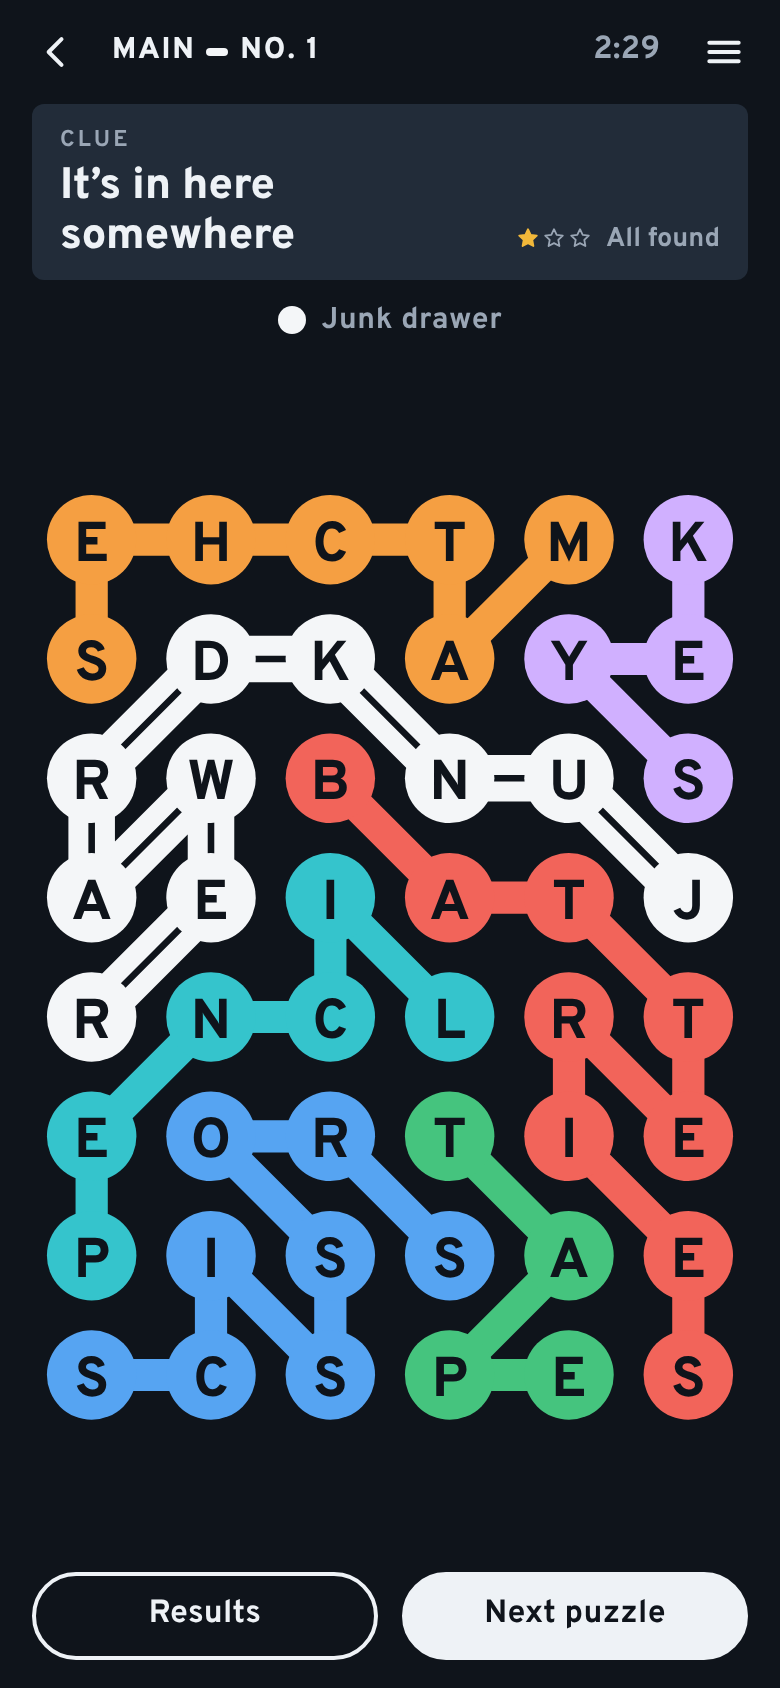
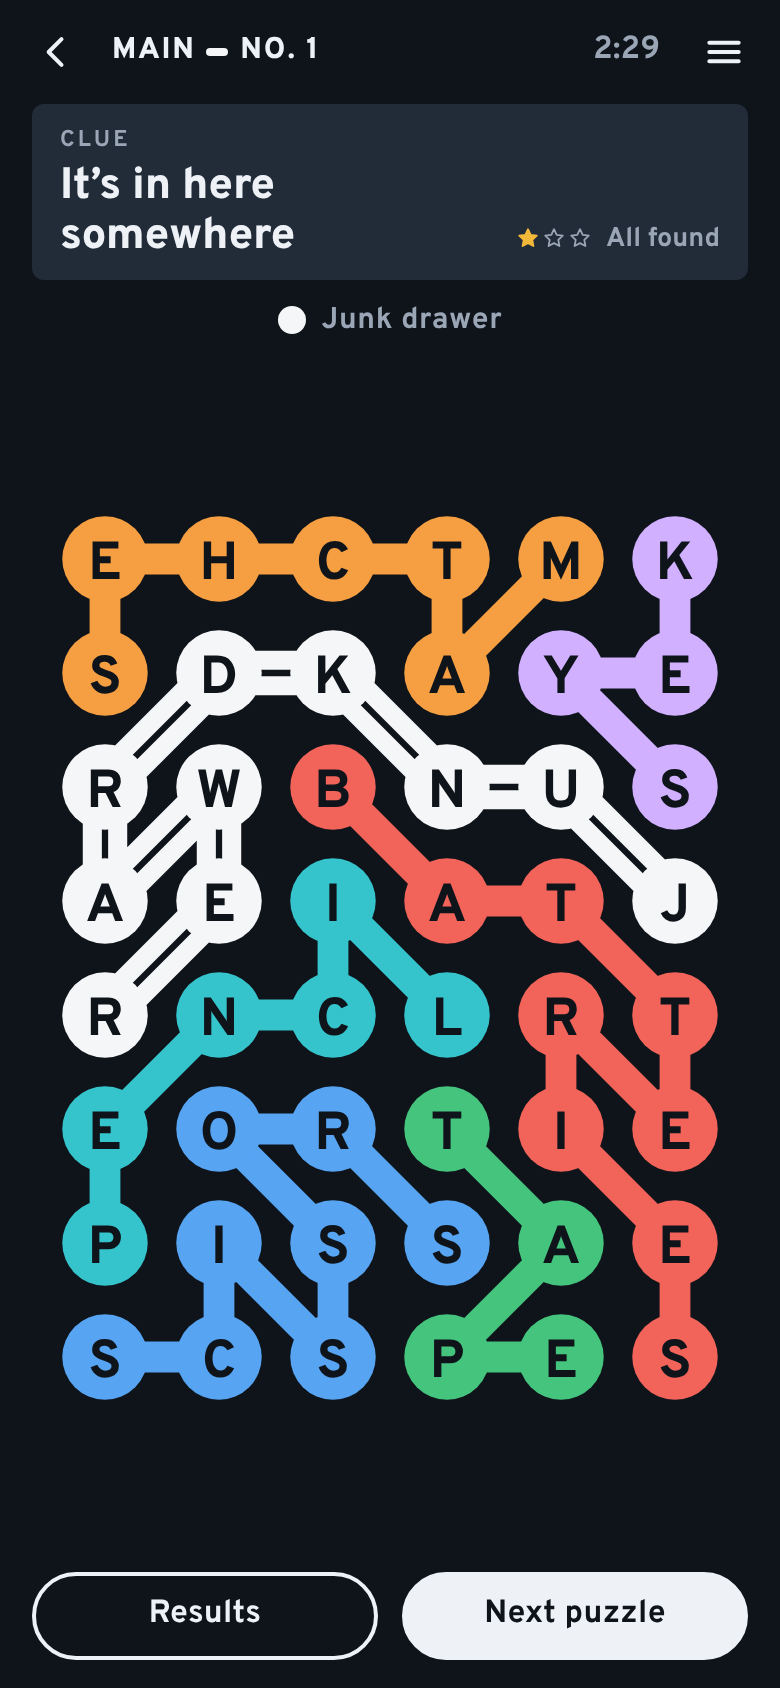
Keep the map's outer stops clear of the screen's sides on touch screens
Android's back gesture starts at the screen's side, and on a phone the map's outer stops reached within 16 px of
it, so a word traced along the edge could set it off. On a touch screen up to 560 px wide the map now keeps 24 px
between where a finger reaches its outer stops and the screen's side. At 390 px the map goes from 358 to 342 px
wide, and at 320 px a stop is still 45 px across. Answers "A sideways layout for the map" (what Mark said about
edge swipes).

Claude-Session: https://claude.ai/code/session_01PQbLNW4ckNMowmqWSWnEc1

Changed region(s): [[0.0615, 0.2773, 0.9538, 0.8626]]

diff --git a/css/app.css b/css/app.css
@@ -318,9 +318,12 @@ a { color: inherit; }
 .readout.nope { animation: nope .32s; }
 @keyframes nope { 20% { transform: translateX(-7px); } 50% { transform: translateX(6px); } 80% { transform: translateX(-3px); } }
 
+/* On a phone's touch screen the outer stops keep 24 px from the screen's sides (from the map's edge, where a finger
+   reaches them), clear of where Android's back gesture starts. The page's margin gives 16 of it. */
+@media (pointer: coarse) and (max-width: 560px) { .board-wrap { --edge: calc(24px - var(--gutter)); } }
 /* A basis in px, not a plain min-height: with container-type: size the box has no height of its own to keep. */
 .board-wrap { flex: 1 0 var(--map-floor); min-height: var(--map-floor); container-type: size; display: grid; place-items: center; --map-floor: 300px; }
-.board { width: min(100cqw, 75cqh); aspect-ratio: 6 / 8; display: block; touch-action: none; user-select: none; -webkit-user-select: none; border-radius: 8px; }
+.board { width: min(100cqw - 2 * var(--edge, 0px), 75cqh); aspect-ratio: 6 / 8; display: block; touch-action: none; user-select: none; -webkit-user-select: none; border-radius: 8px; }
 .board:focus:not(:focus-visible) { outline: none; }
 .board .dot { fill: var(--stop); stroke: var(--stop-edge); stroke-width: .34; transition: fill .18s, stroke .18s; }
 .board text { font: 750 4.7px var(--font); fill: var(--ink); text-anchor: middle; pointer-events: none; transition: fill .18s; }

diff --git a/sw.js b/sw.js
@@ -9,7 +9,7 @@
 // only when this file changes by a byte, so FILES is a fingerprint of every file in SHELL: change any of them and
 // test/e2e.mjs fails until FILES is changed to match (it says what to), which changes this file. Each release keeps
 // its copy under its own name, so making the next one never touches the one in use, and this worker reads only its own.
-const FILES = '24c8e515'; // test/e2e.mjs checks this
+const FILES = 'b33603fd'; // test/e2e.mjs checks this
 const CACHE = 'crosstown-' + FILES;
 const SHELL = [
   './', 'index.html', 'icon.svg', 'manifest.webmanifest',
